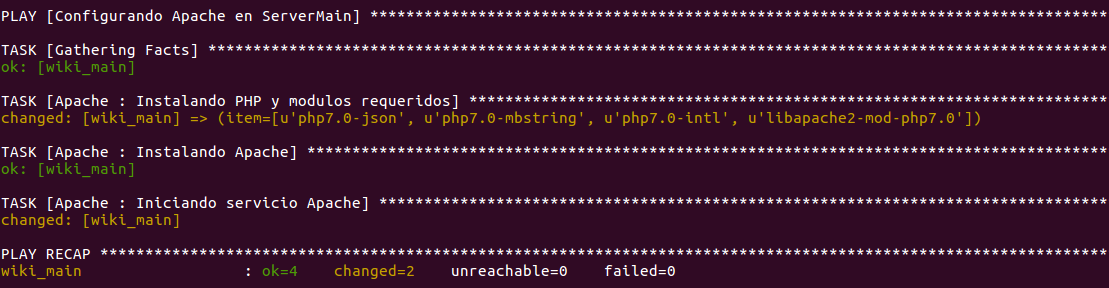
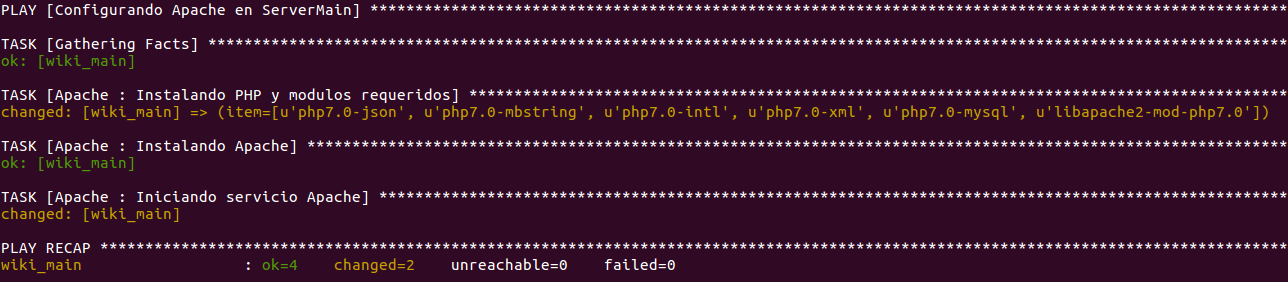
Añadiendo dependencias no anexadas

diff --git a/Ansible/roles/Apache/README.md b/Ansible/roles/Apache/README.md
@@ -8,6 +8,8 @@ En este rol se buscara configurar un host instalando PHP y los modulos usado por
 - mbstring (Instalación Manual)
 - intl (Instalación Manual)
 - OpenSSL (Instalado por defecto)
+- php7.0-xml (Instalacion manual)
+- php7.0-mysql (Instalacion manual, ya que usaremos mysql si se utilizara otro motor de base de datos seria distinto)
 
 Por requerimiento de Apache se debe instalar el modulo libapache2-mod-php7 para que este pueda ejecutar codigo PHP.
 
